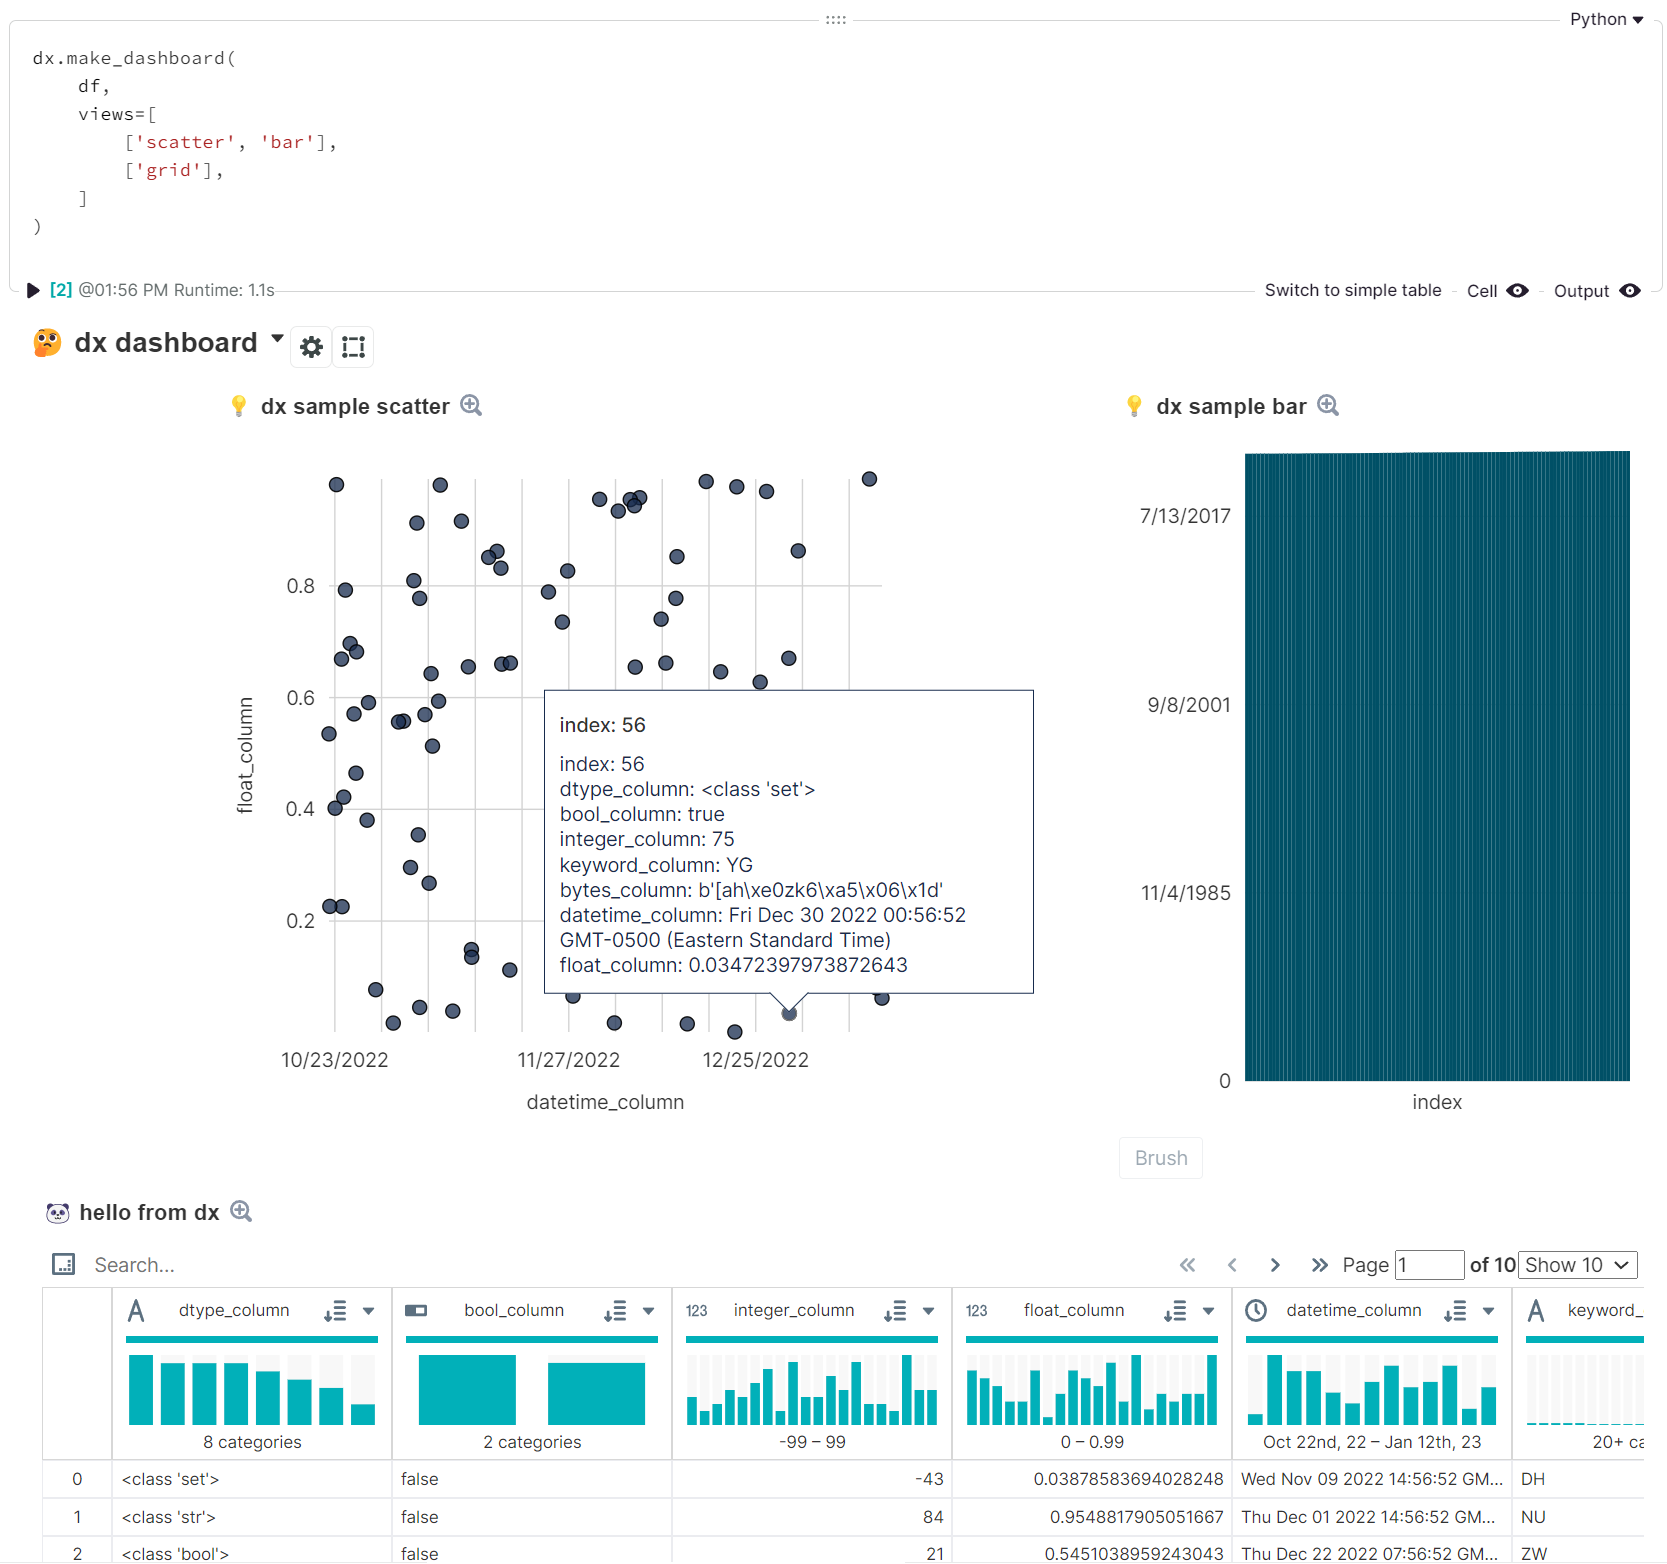
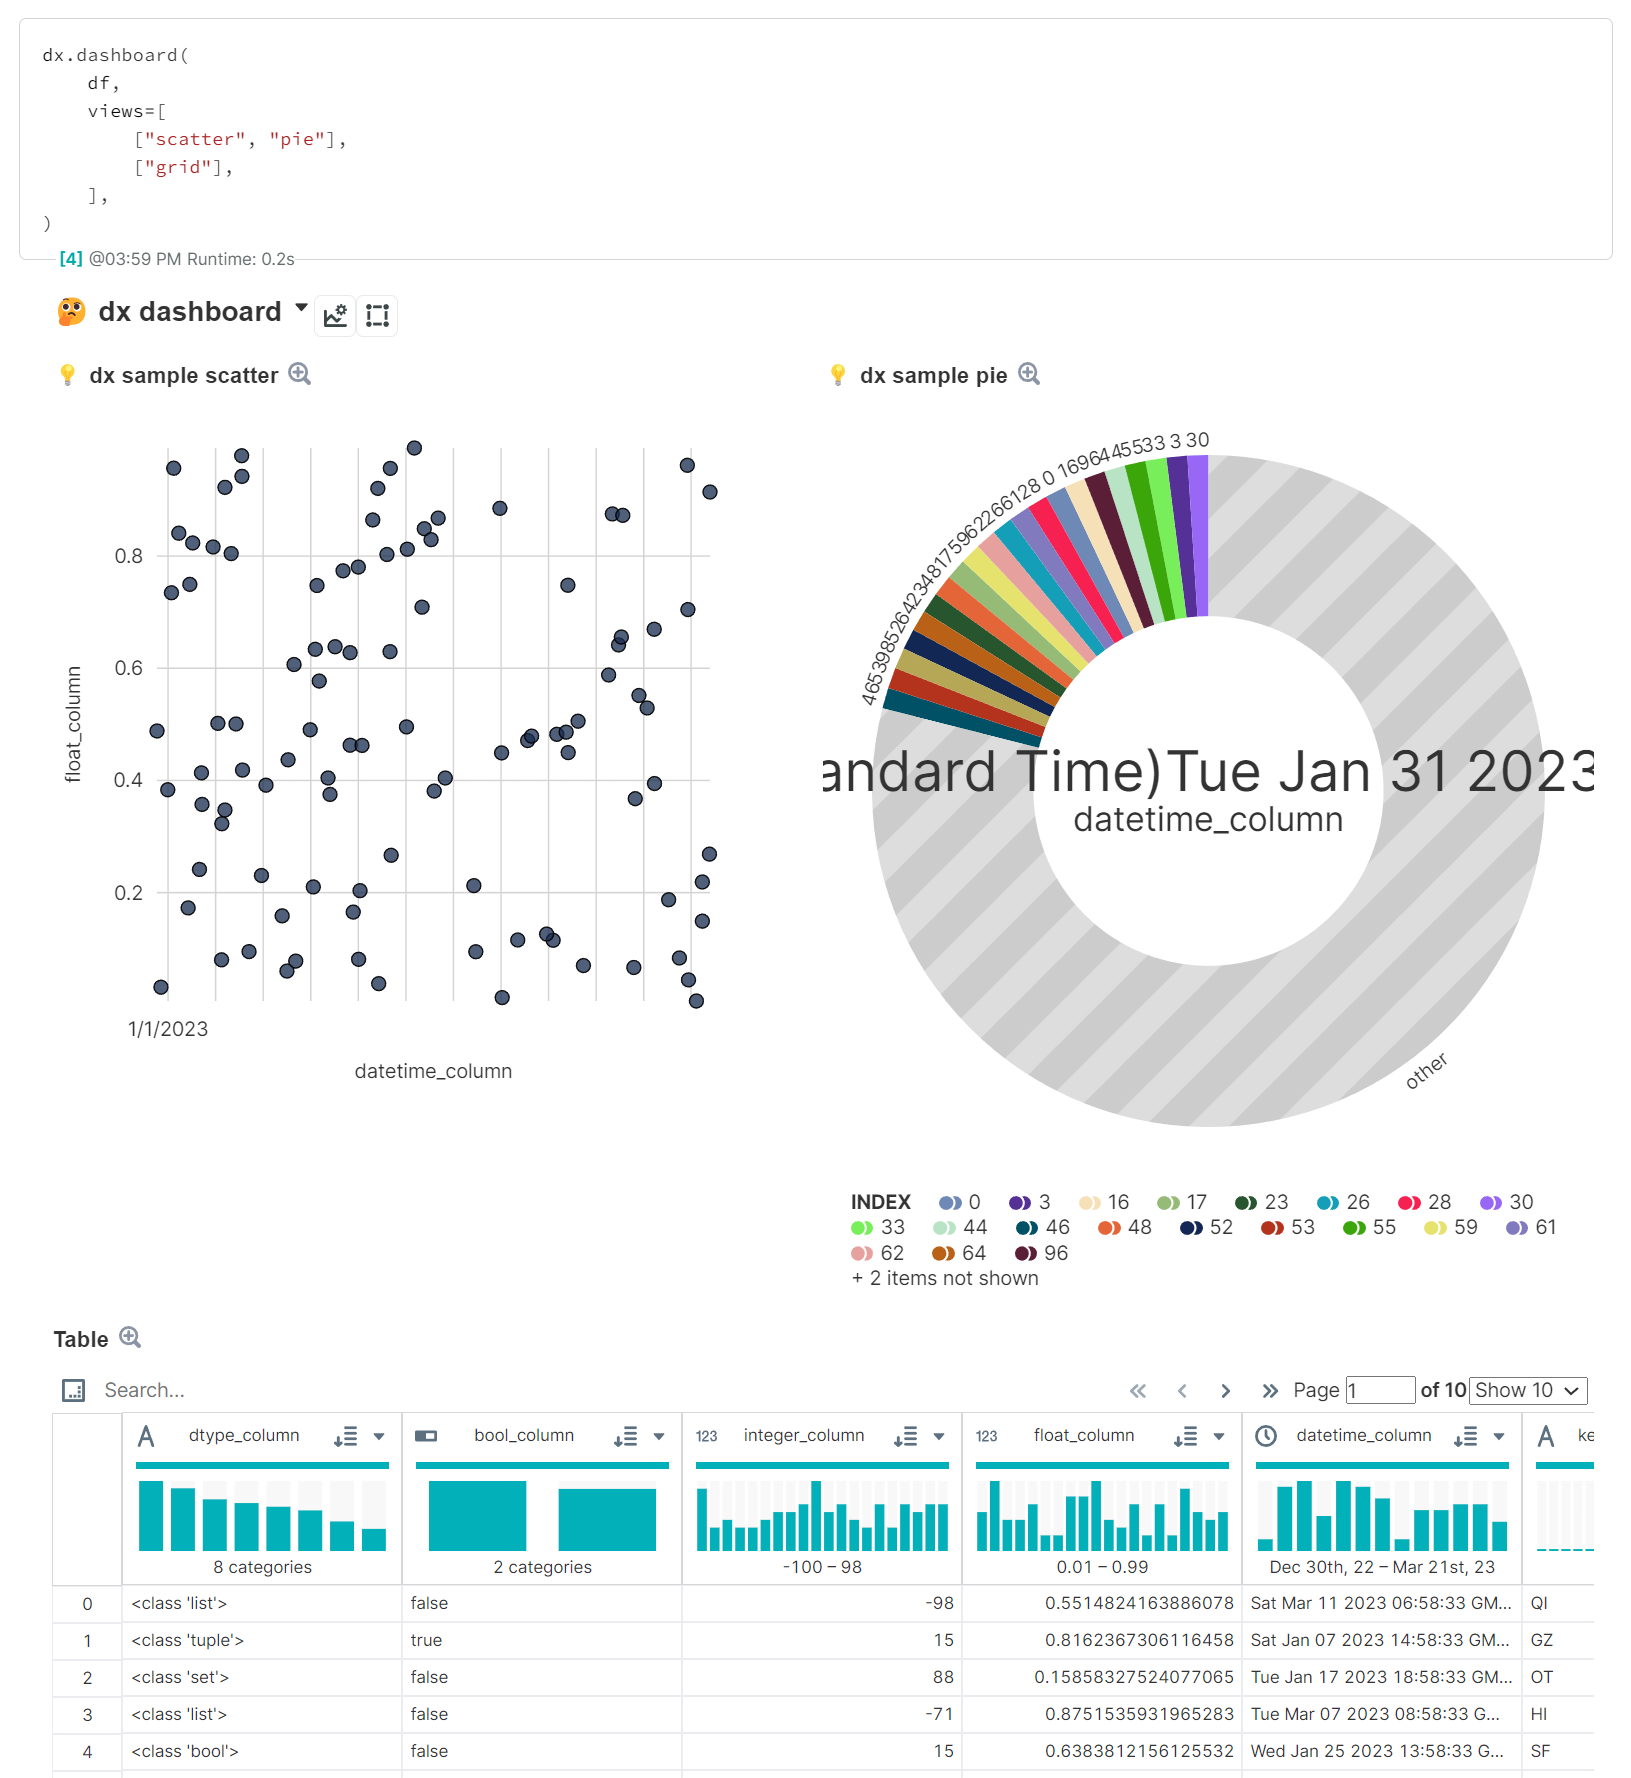
update DEX dashboard-related docs (#170)
* update screenshots

* add chart view syntax; update sample viz types

diff --git a/docs/_charts/dashboards.md b/docs/_charts/dashboards.md
@@ -12,32 +12,58 @@ Here's a quick example where we make a dashboard using two rows -- the top row w
 dx.dashboard(
     df,
     views=[
-        ['scatter', 'bar'],
-        ['grid'],
-    ]
+        ["scatter", "pie"],
+        ["grid"],
+    ],
 )
 ```
 ![](../screenshots/dashboard_simple1.png)
 
 ### With Chart Views
 Using chart functions, you can specify `return_view=True` and pass the resulting `DEXView` object into a dashboard. 
+```python
+custom_bar_chart = dx.bar(
+    df,
+    x='keyword_column',
+    y='integer_column',
+    column_sort_order='desc',
+    column_sort_type='string',
+    show_bar_labels=True,
+    return_view=True,
+)
+
+simple_tilemap = dx.tilemap(
+    df,
+    lat='index',
+    lon='integer_column',
+    return_view=True,
+)
+
+dx.dashboard(
+    df,
+    views=[
+        ["parallel_coordinates", custom_bar_chart],
+        [simple_tilemap, 'pie', 'grid']
+    ]
+)
+```
 ![](../screenshots/dashboard_views1.png)
 
 ### Customized
 If you want to provide some additional arguments, instead of passing a string to indicate the chart type, you can pass a dictionary with `{"chart_mode": CHART TYPE, **extra_kwargs}`.
 ```python
-custom_dotplot = {
-    'chart_mode': 'dotplot', 
-    'decoration': {
-        'title': 'look at this sweet dot plot'
-    }
+custom_chart = {
+    "chart_mode": "hexbin",
+    "decoration": {
+        "title": "look at this sweet hexbin"
+    },
 }
 
 dx.dashboard(
-    df,
+    df, 
     views=[
-        [custom_dotplot, 'force_directed_network'],
-        ['scatter']
+        [custom_chart, "force_directed_network"], 
+        ["ridgeline"]
     ]
 )
 ```
